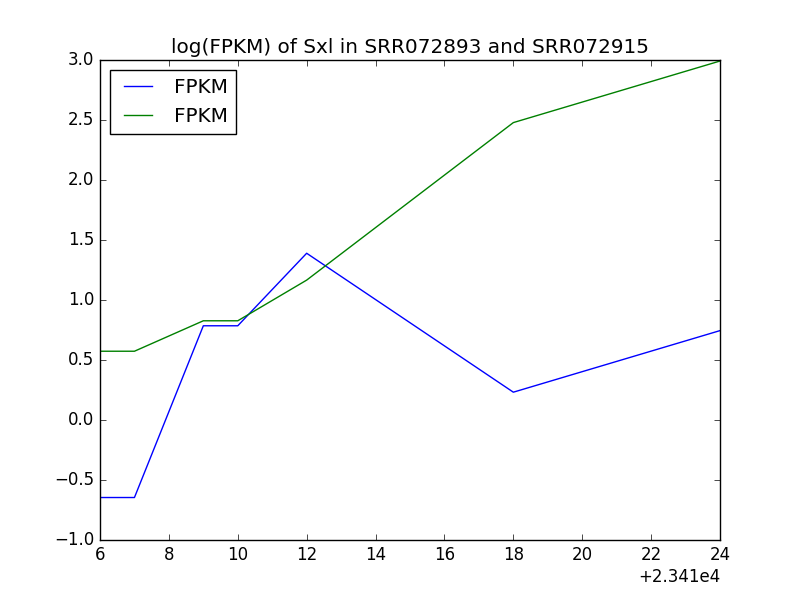
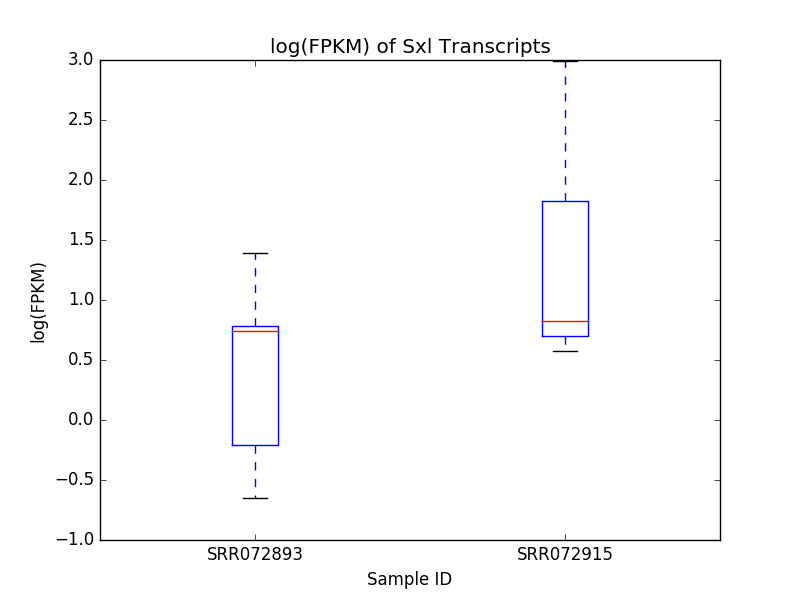
Fixed Exercise 1

diff --git a/day4-lunch/Sxl-FPKM-plot.py b/day4-lunch/Sxl-FPKM-plot.py
@@ -17,9 +17,10 @@ df2_Sxl_exp = df2[ df2_roi ]
 df2_FPKM_log = np.log(df2_Sxl_exp[ "FPKM" ] )
 
 plt.figure()
-plt.plot( df_FPKM_log )
-plt.plot( df2_FPKM_log )
-plt.title( "log(FPKM) of Sxl in SRR072893 and SRR072915" )
-plt.legend(loc = 'upper left')
+#plt.plot( df_FPKM_log )
+plt.boxplot( [df_FPKM_log, df2_FPKM_log], labels=["SRR072893", "SRR072915"] )
+plt.title( "log(FPKM) of Sxl Transcripts" )
+plt.xlabel( "Sample ID" )
+plt.ylabel( "log(FPKM)")
 plt.savefig( "Sxl_expression.png" )
 plt.show()
